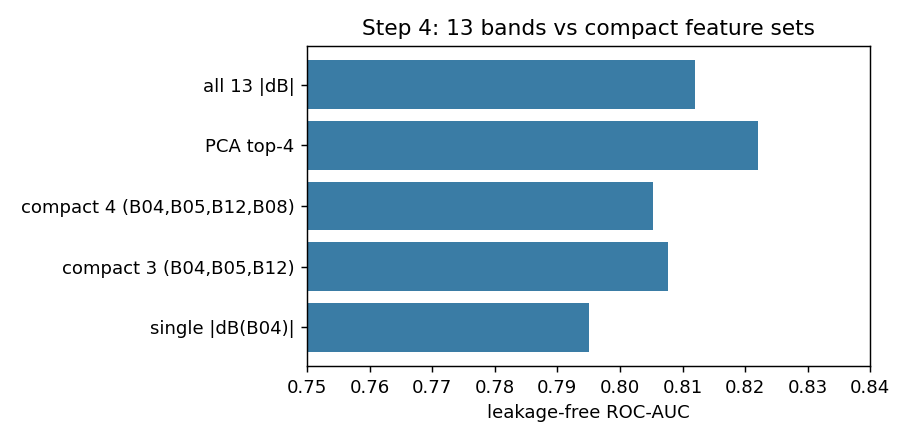
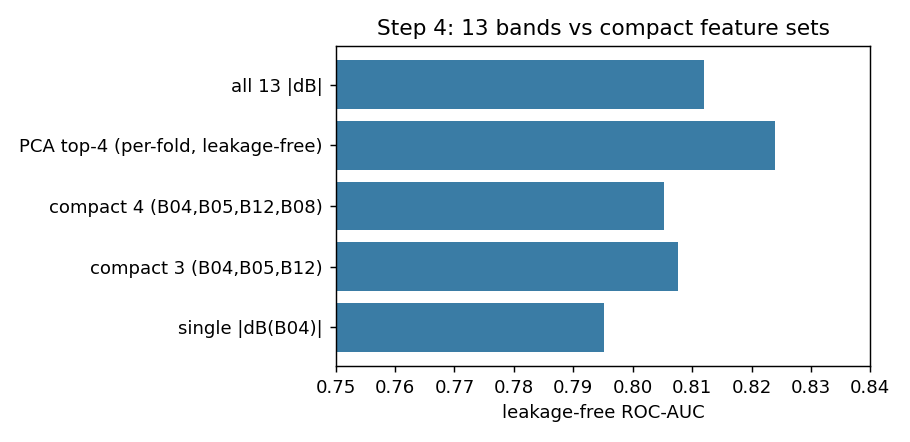
Add Part-2 EDA (domain shift, spatial context, hard negatives) + review fixes
- Fix Step-4 PCA to be leakage-free (fit inside each CV fold): 0.822 -> 0.824
- Refine signed-dB claim: no univariate/linear relevance, but nonlinear recovers
  0.79 (=magnitude); [dB,|dB|] does not beat |dB| -> feed |dB| explicitly
- Part 2 (eda_spatial.py):
  * per-image median correction lifts cross-city AUC 0.811 -> 0.864
  * spatial mean-pool sweep 1x1..7x7: 0.811 -> 0.878 (spatial model justified)
  * hard negatives (urban vs natural within changed-a-lot): AUC 0.60 via NDVI/NDBI state
- Add PR-AUC / true-prevalence caveat; angle > amplitude encoding rationale

diff --git a/eda_spatial.py b/eda_spatial.py
@@ -1,0 +1,123 @@
+"""
+OSCD EDA -- Part 2: domain-shift correction, hard negatives, spatial context.
+Follow-up to eda.py. Decides (a) whether per-image median correction helps,
+(b) whether land-cover state separates urban vs natural change within the
+"changed-a-lot" group, and (c) how much spatial context (patch size) adds --
+i.e. whether a purely spectral VQC suffices or a spatial model is warranted.
+
+Usage: python eda_spatial.py --data_dir /path/to/OneraDataset
+"""
+import argparse, os
+import numpy as np
+from PIL import Image
+from scipy.ndimage import uniform_filter, maximum_filter
+
+BANDS = ["B01","B02","B03","B04","B05","B06","B07","B08","B8A","B09","B10","B11","B12"]
+TRAIN = ["aguasclaras","bercy","bordeaux","nantes","paris","rennes","saclay_e",
+         "abudhabi","cupertino","pisa","beihai","hongkong","beirut","mumbai"]
+BI = {b:i for i,b in enumerate(BANDS)}
+RNG = np.random.RandomState(0)
+
+def main():
+    ap = argparse.ArgumentParser()
+    ap.add_argument("--data_dir", required=True)
+    ap.add_argument("--out", default="results")
+    args = ap.parse_args()
+    import matplotlib; matplotlib.use("Agg"); import matplotlib.pyplot as plt
+    from sklearn.linear_model import LogisticRegression
+    from sklearn.model_selection import cross_val_score, GroupKFold
+
+    img = os.path.join(args.data_dir,"images","Onera Satellite Change Detection dataset - Images")
+    lbl = os.path.join(args.data_dir,"train_labels","Onera Satellite Change Detection dataset - Train Labels")
+    ld  = lambda c,s: np.stack([np.array(Image.open(os.path.join(img,c,s,f"{b}.tif")),dtype=np.float32) for b in BANDS],-1)
+    ly  = lambda c: (np.array(Image.open(os.path.join(lbl,c,"cm",f"{c}-cm.tif")))==2).astype(np.int8)
+
+    # frozen robust normalization params (train, T1+T2 pooled)
+    pool=[]
+    for c in TRAIN:
+        pool.append(ld(c,"imgs_1_rect").reshape(-1,13)); pool.append(ld(c,"imgs_2_rect").reshape(-1,13))
+    pool=np.vstack(pool); P1=np.percentile(pool,1,0); P99=np.percentile(pool,99,0); del pool
+    norm=lambda x:np.clip((x-P1)/(P99-P1),0,1)
+
+    WINS=[1,3,5,7]
+    feat={"raw":[], "corr":[]}                 # |dB| at pixel: raw vs median-corrected
+    win_mean={w:[] for w in WINS}; win_max={w:[] for w in WINS}
+    hardX=[]; hardY=[]; state_all=[]
+    Y=[]; G=[]
+    for cid,c in enumerate(TRAIN):
+        t1=ld(c,"imgs_1_rect"); y=ly(c); H,W=y.shape
+        t1=t1[:H,:W]; t2=ld(c,"imgs_2_rect")[:H,:W]
+        n1=norm(t1); n2=norm(t2)
+        adb=np.abs(n2-n1)                                   # H,W,13  |dB|
+        med=np.median((n2-n1).reshape(-1,13),0)             # per-image baseline (dominated by no-change)
+        adb_corr=np.abs((n2-n1)-med)
+        valid=~(((np.concatenate([t1,t2],-1))==0).any(-1))
+        # spatial aggregation of |dB| (before sampling), per band
+        wm={w:uniform_filter(adb,size=(w,w,1),mode="reflect") for w in WINS}
+        wx={w:maximum_filter(adb,size=(w,w,1),mode="reflect") for w in WINS}
+        # sample: all change + equal-ish no-change
+        ch=valid&(y==1); nch=valid&(y==0)
+        ci=np.argwhere(ch); ni=np.argwhere(nch); k=len(ci)
+        sel=ni[RNG.choice(len(ni),min(len(ni),max(k,20000)),replace=False)]
+        idx=np.vstack([ci,sel]); r,cc=idx[:,0],idx[:,1]
+        yy=np.concatenate([np.ones(k),np.zeros(len(sel))])
+        feat["raw"].append(adb[r,cc]); feat["corr"].append(adb_corr[r,cc])
+        for w in WINS: win_mean[w].append(wm[w][r,cc]); win_max[w].append(wx[w][r,cc])
+        state_all.append(np.hstack([n1[r,cc],n2[r,cc]]))     # absolute state 26-dim
+        Y.append(yy); G.append(np.full(len(idx),cid))
+        # hard negatives: pixels that changed a lot (top-20% pixel-mean |dB|) among VALID
+        mag=adb.mean(-1); thr=np.percentile(mag[valid],80)
+        hi=valid&(mag>=thr)
+        hci=np.argwhere(hi&(y==1)); hni=np.argwhere(hi&(y==0))
+        m=min(len(hci),len(hni))
+        if m>50:
+            hci=hci[RNG.choice(len(hci),m,replace=False)]; hni=hni[RNG.choice(len(hni),m,replace=False)]
+            hidx=np.vstack([hci,hni]); hr,hcc=hidx[:,0],hidx[:,1]
+            # features to tell urban(1) from natural(0) *within* changed-a-lot:
+            def ndi(N,a,b): return (N[...,BI[a]]-N[...,BI[b]])/(N[...,BI[a]]+N[...,BI[b]]+1e-6)
+            ctx=np.stack([ndi(n1,"B08","B04"),ndi(n2,"B08","B04"),   # NDVI T1,T2
+                          ndi(n1,"B11","B08"),ndi(n2,"B11","B08")],-1) # NDBI T1,T2
+            hardX.append(np.hstack([n1[hr,hcc],n2[hr,hcc],ctx[hr,hcc]]))
+            hardY.append(np.concatenate([np.ones(len(hci)),np.zeros(len(hni))]))
+
+    Y=np.concatenate(Y); G=np.concatenate(G)
+    gkf=GroupKFold(5); lr=lambda:LogisticRegression(max_iter=500)
+    auc=lambda F,y,g: cross_val_score(lr(),F,y,cv=gkf,groups=g,scoring="roc_auc").mean()
+
+    md=["\n## Part 2 -- Domain shift, hard negatives, spatial context\n"]
+
+    # (1) median correction
+    a_raw=auc(np.vstack(feat["raw"]),Y,G); a_corr=auc(np.vstack(feat["corr"]),Y,G)
+    md+= [f"\n### Per-image median correction (removes city/season domain shift)\n",
+          f"- |dB| raw            : AUC {a_raw:.3f}\n",
+          f"- |dB| median-corrected: AUC {a_corr:.3f}\n"]
+
+    # (2) spatial sweep
+    md+=["\n### Spatial-context sweep (window aggregation of |dB|, leakage-free)\n",
+         "| window | mean-pool AUC | max-pool AUC |\n|---|---|---|\n"]
+    ms=[]; xs=[]
+    for w in WINS:
+        am=auc(np.vstack(win_mean[w]),Y,G); ax=auc(np.vstack(win_max[w]),Y,G)
+        ms.append(am); xs.append(ax); md.append(f"| {w}x{w} | {am:.3f} | {ax:.3f} |\n")
+    fig,axp=plt.subplots(figsize=(6,3.6))
+    axp.plot(WINS,ms,"o-",label="mean-pool |dB|"); axp.plot(WINS,xs,"s-",label="max-pool |dB|")
+    axp.set_xlabel("window size"); axp.set_ylabel("grouped-CV AUC")
+    axp.set_title("Spatial context vs pixel-only (1x1)"); axp.legend(); axp.grid(alpha=.3)
+    fig.tight_layout(); fig.savefig(f"{args.out}/part2_patch_sweep.png",dpi=130); plt.close(fig)
+
+    # (3) hard negatives: urban vs natural WITHIN changed-a-lot
+    HX=np.vstack(hardX); HY=np.concatenate(hardY)
+    md+=["\n### Hard negatives: urban vs *natural* change within the changed-a-lot group\n",
+         "_(only pixels in the top-20% |dB| magnitude; balanced urban vs natural)_\n"]
+    # grouped CV needs groups; approximate with random 5-fold here (per-city already balanced)
+    from sklearn.model_selection import cross_val_score as cvs
+    a_state=cvs(lr(),HX,HY,cv=5,scoring="roc_auc").mean()
+    md.append(f"- separability using [B_T1,B_T2,NDVI_T1/T2,NDBI_T1/T2]: AUC {a_state:.3f} "
+              f"(0.5 = magnitude alone can't tell them apart)\n")
+
+    with open(f"{args.out}/RESULTS.md","a") as f: f.writelines(md)
+    print("median: raw %.3f corr %.3f | sweep mean %s | hardneg %.3f"%(
+          a_raw,a_corr,["%.3f"%m for m in ms],a_state))
+
+if __name__=="__main__":
+    main()

diff --git a/eda.py b/eda.py
@@ -110,6 +110,8 @@ def main():
     from sklearn.metrics import roc_auc_score
     from sklearn.decomposition import PCA
     from sklearn.linear_model import LogisticRegression
+    from sklearn.pipeline import make_pipeline
+    from sklearn.preprocessing import StandardScaler
     from sklearn.model_selection import cross_val_score, GroupKFold
     from scipy.cluster.hierarchy import linkage, fcluster, dendrogram
     from scipy.spatial.distance import squareform
@@ -211,23 +213,26 @@ def main():
     fig.tight_layout(); fig.savefig(f"{args.out}/step4_pca.png", dpi=130); plt.close(fig)
 
     gkf = GroupKFold(5)
-    def cvauc(F):
-        return cross_val_score(LogisticRegression(max_iter=500), F, Y,
-                               cv=gkf, groups=CID, scoring="roc_auc").mean()
+    def cvauc(est, F):
+        return cross_val_score(est, F, Y, cv=gkf, groups=CID, scoring="roc_auc").mean()
+    lr = LogisticRegression(max_iter=500)
+    # NOTE: PCA/standardization must be fit INSIDE each fold to stay leakage-free;
+    # a globally-fit PCA lets the basis see the validation city's distribution.
+    pca_pipe = make_pipeline(StandardScaler(), PCA(4), LogisticRegression(max_iter=500))
     sets = {
-        "all 13 |dB|": adB,
-        "PCA top-4": pca.transform(Zs)[:, :4],
-        "compact 4 (B04,B05,B12,B08)": adB[:, [BI[b] for b in ["B04","B05","B12","B08"]]],
-        "compact 3 (B04,B05,B12)": adB[:, [BI[b] for b in ["B04","B05","B12"]]],
-        "single |dB(B04)|": adB[:, [BI["B04"]]],
+        "all 13 |dB|": (lr, adB),
+        "PCA top-4 (per-fold, leakage-free)": (pca_pipe, adB),
+        "compact 4 (B04,B05,B12,B08)": (lr, adB[:, [BI[b] for b in ["B04","B05","B12","B08"]]]),
+        "compact 3 (B04,B05,B12)": (lr, adB[:, [BI[b] for b in ["B04","B05","B12"]]]),
+        "single |dB(B04)|": (lr, adB[:, [BI["B04"]]]),
     }
     md += ["\n## Step 4 -- Intrinsic dimensionality & leakage-free multivariate AUC\n",
            f"- PCA cumulative variance: PC1={ev[0]:.2f}, top-4={np.cumsum(ev)[3]:.2f}, "
            f"top-6={np.cumsum(ev)[5]:.2f}\n",
            "\n| feature set | grouped-CV AUC (group=city) |\n|---|---|\n"]
     res = {}
-    for name, F in sets.items():
-        res[name] = cvauc(F); md.append(f"| {name} | {res[name]:.3f} |\n")
+    for name, (est, F) in sets.items():
+        res[name] = cvauc(est, F); md.append(f"| {name} | {res[name]:.3f} |\n")
 
     fig, ax = plt.subplots(figsize=(7, 3.4))
     ax.barh(list(res.keys())[::-1], list(res.values())[::-1], color="#3a7ca5")

diff --git a/README.md b/README.md
@@ -60,10 +60,13 @@ keep in mind. AUC (rank-based) is unaffected by it.
 Single-band separability, measured as ROC-AUC (imbalance-robust) of the
 temporal difference.
 
-**Direction is meaningless; magnitude is the signal.** For every band
-`AUC(signed dB) ≈ 0.5`, while `AUC(|dB|)` reaches **0.79**. Urban change goes in
-both spectral directions depending on the city, but *"changed a lot"* is
-consistent. → **features must be `|dB|`, not signed `dB`.**
+**Direction has no univariate/linear relevance; magnitude is the signal.** For
+every band `AUC(signed dB) ≈ 0.5` and a *linear* multivariate probe on signed
+`dB` scores only 0.48 — but a *nonlinear* model recovers 0.79 from signed `dB`
+(it re-derives the magnitude). Crucially `[dB, |dB|]` does **not** beat `|dB|`
+alone (0.80 vs 0.82), so there is no extra directional/joint pattern beyond
+magnitude. → **feed `|dB|` explicitly** (spares the model from learning `abs`);
+signed `dB` is not information-free, just an inefficient encoding.
 
 ![B04 histogram](results/step1_B04_hist.png)
 
@@ -101,24 +104,53 @@ PCA on `|dB|`: PC1 alone explains **59 %**, top-4 reach 85 %. Multivariate AUC
 | compact 3 (B04,B05,B12) | 0.808 |
 | single `|dB(B04)|` | 0.795 |
 
-**Compressing 13 → 3–4 features loses essentially nothing.** The per-pixel
-spectral ceiling is ~0.82 — beating it requires **spatial context (4×4 patches)**,
-not more bands.
+**Compressing 13 → 3–4 features loses essentially nothing** (PCA-4 is fit
+inside each CV fold — leakage-free). The compact spectral-change ceiling is
+~0.82 and it **holds under a nonlinear model and after adding the absolute
+`[B_T1, B_T2]` state** (0.81–0.82) — so beating it needs **spatial context**,
+not more bands or nonlinearity.
+
+> **Metric caveat:** AUCs above use a class-balanced sample. At the true 2.29 %
+> prevalence, report **PR-AUC, F1 and Change-Accuracy** (the challenge metrics) —
+> ROC-AUC alone is optimistic under extreme imbalance.
+
+### Part 2 — domain shift, spatial context, hard negatives
+
+![patch sweep](results/part2_patch_sweep.png)
+
+- **Per-image median correction.** Per-city median `dB` varies enormously
+  (B8A spread ~1500 DN across cities), so raw `|dB|` partly encodes *city/season
+  identity*. Subtracting each image's median baseline
+  `dBᶜᵒʳʳ = (T2−T1) − median` lifts cross-city AUC **0.811 → 0.864**. Adopt it.
+- **Spatial sweep (mean-pool `|dB|`).** 1×1 **0.811** → 3×3 0.848 → 5×5 0.868 →
+  7×7 **0.878**, monotonic. Spatial context is a real, sizeable lever →
+  **a spatial model (QCNN / patch features) is justified.**
+- **Hard negatives.** Within the top-20 % `|dB|` ("changed a lot"), separating
+  *urban* from *natural* change using land-cover state
+  `[B_T1, B_T2, NDVI_T1/T2, NDBI_T1/T2]` gives AUC **0.60** — modest but > 0.5.
+  So the *state* (not the delta) of vegetation/built-up indices carries some of
+  the urban-vs-natural distinction; keep it, but it is not a silver bullet.
 
 ---
 
 ## Recommendation for the QML pipeline
 
-- **Input features:** per-band robust-normalized **`|dB|`** for a small set —
-  **`{B04, B05, B12}` (+`B08`)** or **PCA top-4** → 4-qubit angle encoding.
-- **Exclude** signed `dB` and spectral-index deltas (no / weak signal).
+- **Input features:** per-band robust-normalized, **median-corrected `|dBᶜᵒʳʳ|`**
+  for a small set — **`{B04, B05, B12}` (+`B08`)** or **PCA top-4** → **4-qubit
+  angle encoding** (`θ = π·|dB|`).
+- **Angle > amplitude encoding:** PC1 (59 % of variance) is essentially overall
+  change *magnitude*; amplitude encoding normalizes `‖x‖` away and would discard
+  it. If amplitude is tried, encode `‖x‖` on a separate qubit.
+- **Exclude** signed `dB` and spectral-index *deltas*; **keep** NDVI/NDBI *state*
+  (T1,T2) as optional context features for hard negatives.
 - **Drop** B01/B09/B10 (low relevance *and* redundant/isolated).
-- Give the parameter-matched classical baseline the **same** features.
-- The real accuracy gains live in **spatial patches**, not extra bands.
+- Parameter-matched classical baseline gets the **same** features.
+- Biggest remaining lever is **spatial patches**, not extra bands.
 
 ```
-raw T1/T2 → robust per-band norm ([0,1]) → |dB| → {B04,B05,B12(,B08)} / PCA-4
-          → 4×4 patch → PQC   vs   param-matched MLP
+raw T1/T2 → robust per-band norm → per-image median-corrected |dB|
+          → {B04,B05,B12(,B08)} / PCA-4   (+ optional NDVI/NDBI state)
+          → n×n patch → PQC   vs   param-matched MLP
 ```
 
 ---

diff --git a/results/RESULTS.md b/results/RESULTS.md
@@ -49,7 +49,25 @@ _Auto-generated by `eda.py`. Reasoning in the top-level README._
 | feature set | grouped-CV AUC (group=city) |
 |---|---|
 | all 13 |dB| | 0.812 |
-| PCA top-4 | 0.822 |
+| PCA top-4 (per-fold, leakage-free) | 0.824 |
 | compact 4 (B04,B05,B12,B08) | 0.805 |
 | compact 3 (B04,B05,B12) | 0.808 |
 | single |dB(B04)| | 0.795 |
+
+## Part 2 -- Domain shift, hard negatives, spatial context
+
+### Per-image median correction (removes city/season domain shift)
+- |dB| raw            : AUC 0.811
+- |dB| median-corrected: AUC 0.864
+
+### Spatial-context sweep (window aggregation of |dB|, leakage-free)
+| window | mean-pool AUC | max-pool AUC |
+|---|---|---|
+| 1x1 | 0.811 | 0.811 |
+| 3x3 | 0.848 | 0.860 |
+| 5x5 | 0.868 | 0.869 |
+| 7x7 | 0.878 | 0.869 |
+
+### Hard negatives: urban vs *natural* change within the changed-a-lot group
+_(only pixels in the top-20% |dB| magnitude; balanced urban vs natural)_
+- separability using [B_T1,B_T2,NDVI_T1/T2,NDBI_T1/T2]: AUC 0.599 (0.5 = magnitude alone can't tell them apart)
